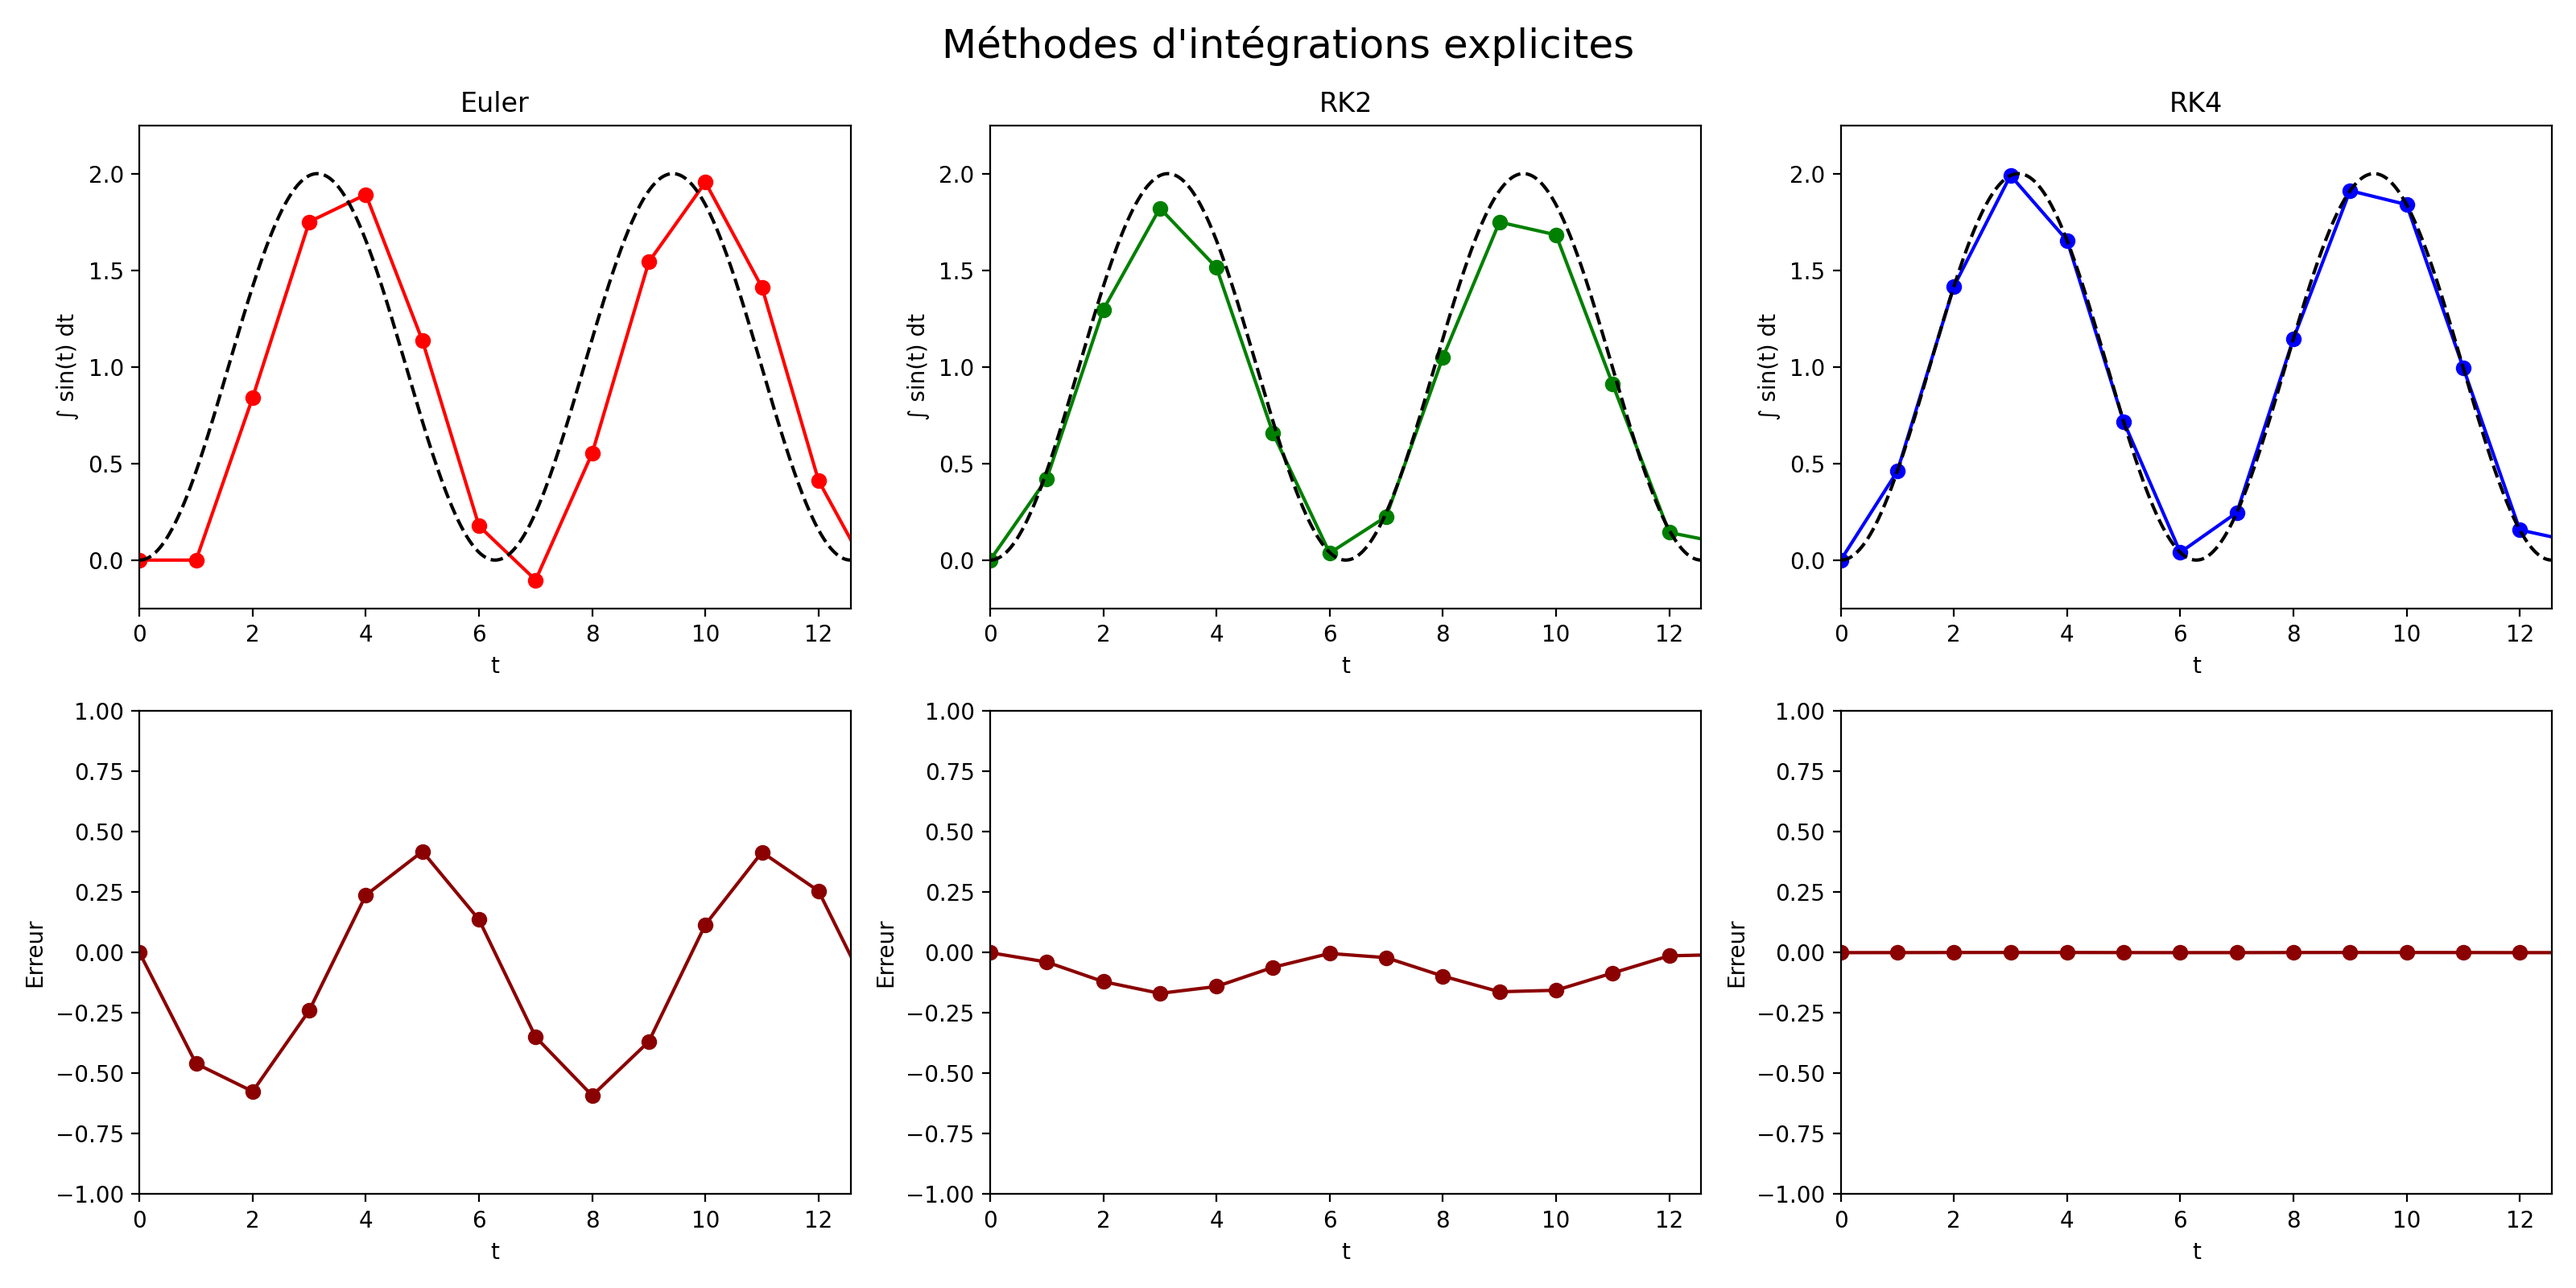
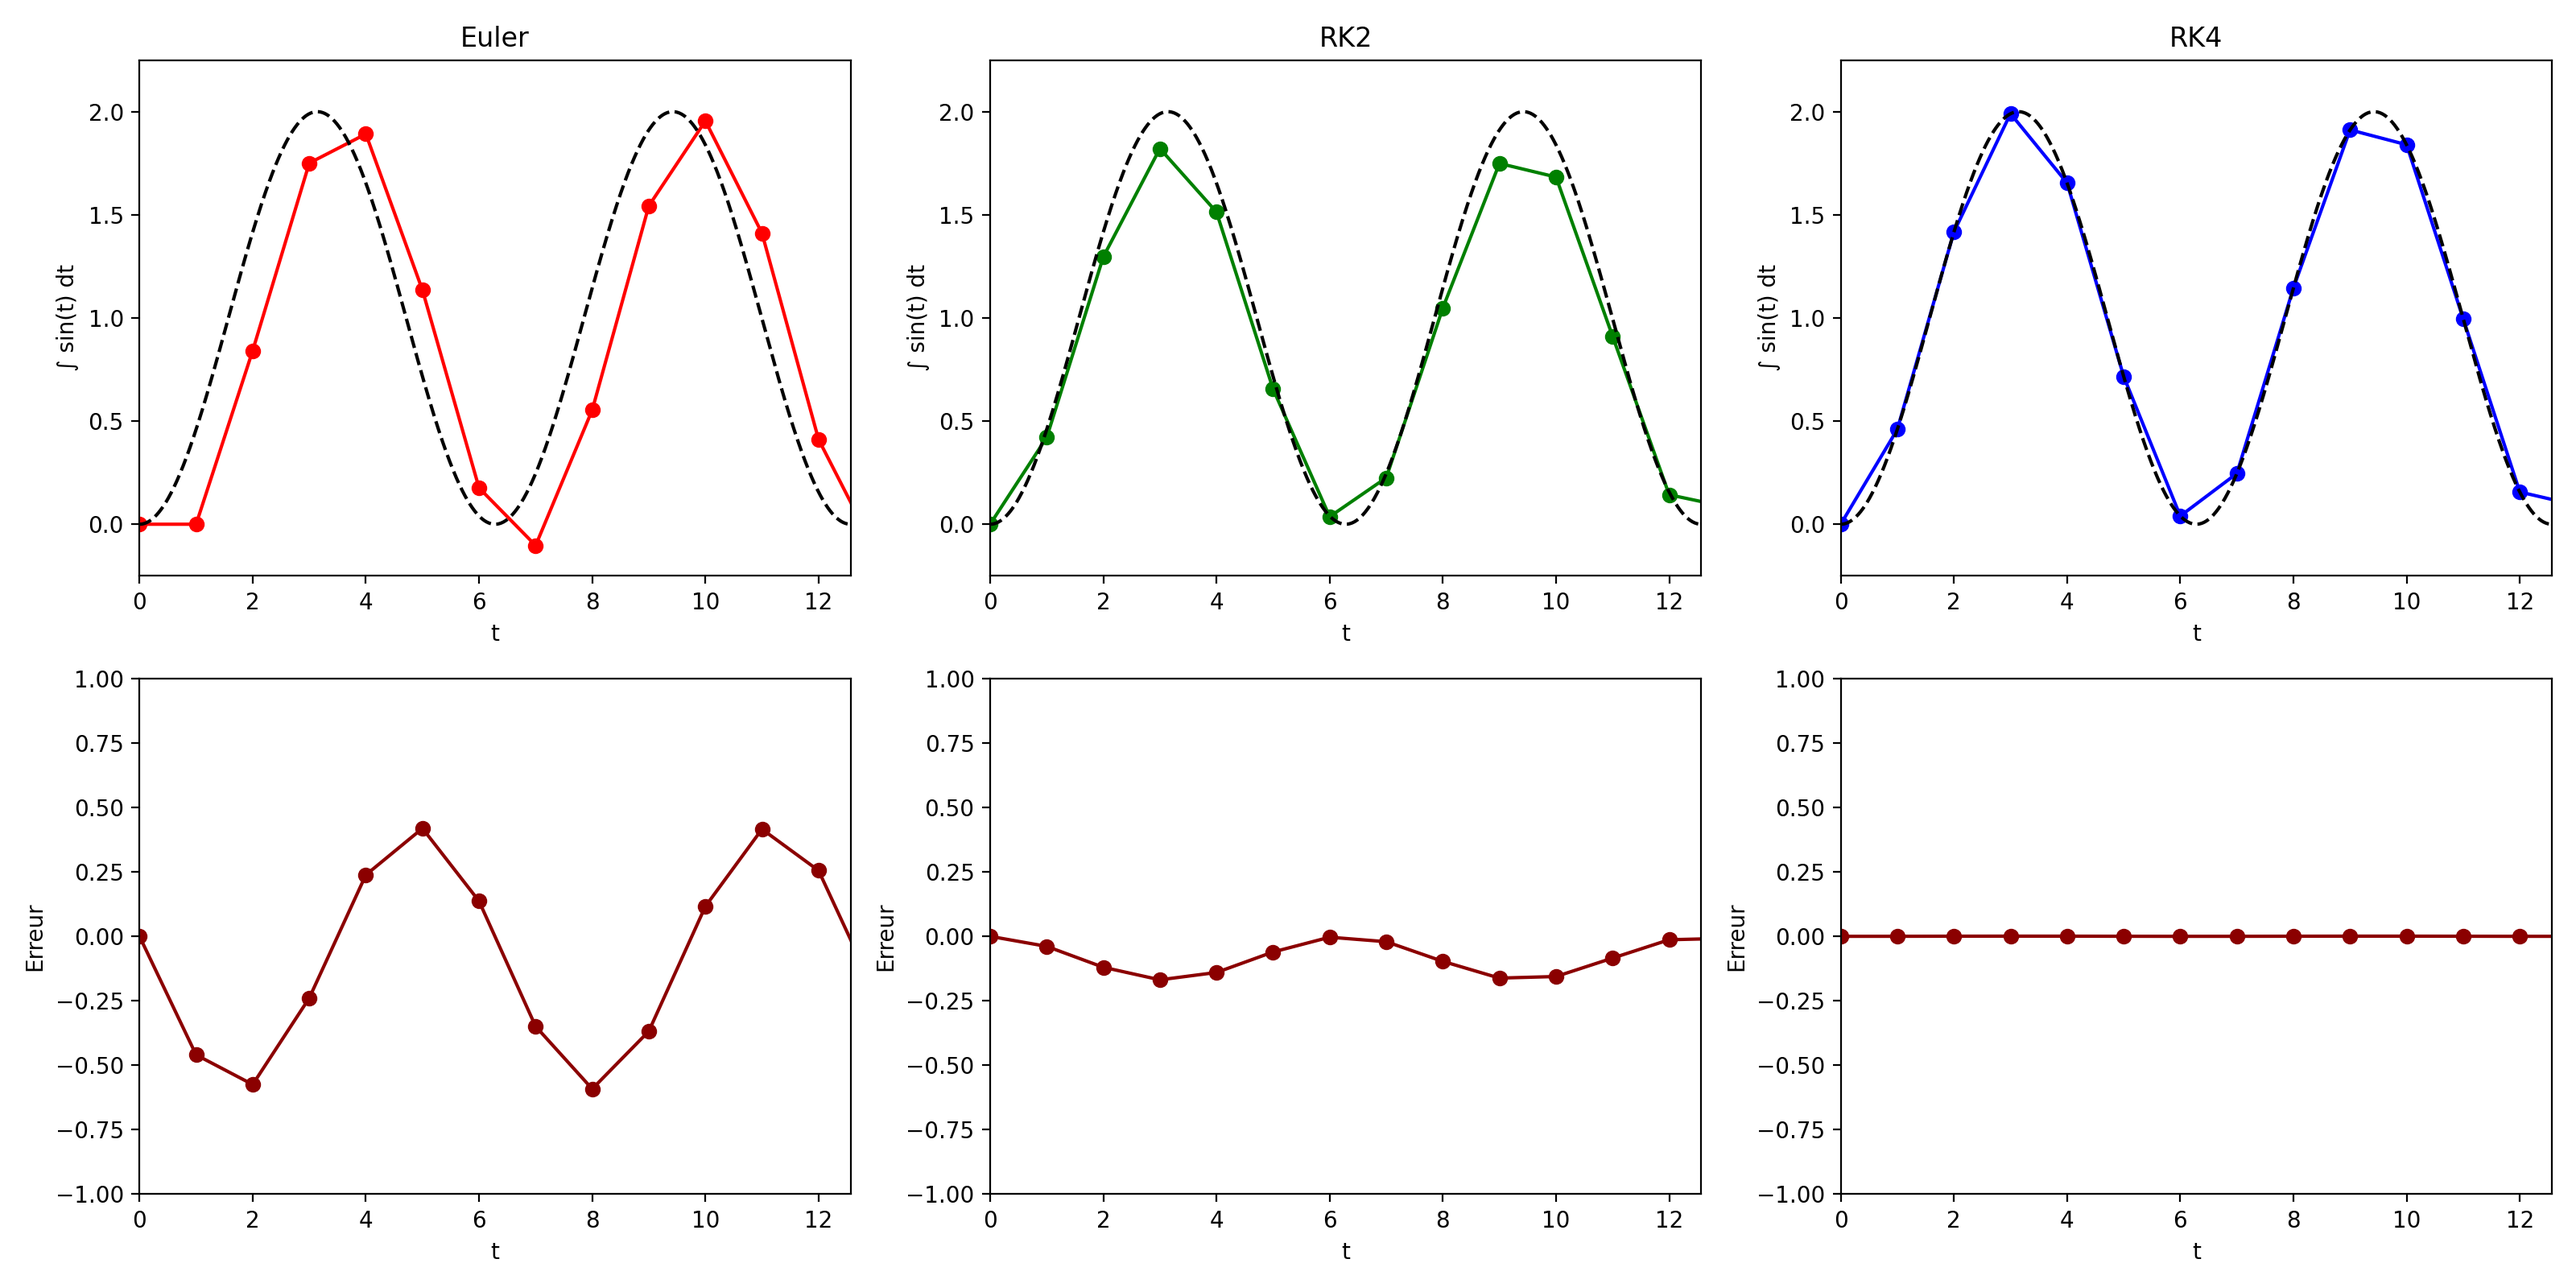
aze

diff --git a/assets/scripts/thesis/01_discretize_function.py b/assets/scripts/thesis/01_discretize_function.py
@@ -3,14 +3,14 @@ import matplotlib.pyplot as plt
 
 # Définir la fonction à discrétiser
 def f(t):
-    A = 1.0      # amplitude
+    A = 0.5      # amplitude
     mu = 10.0     # moyenne
     sigma = 4.0  # écart-type
     return A * np.exp(-((t - mu)**2) / (2 * sigma**2))
 # Paramètres de discrétisation
 t_min = 0
 t_max = 20
-dt = 2.
+dt = 2.5
 
 # Vecteur de temps discrétisé
 t_values = np.arange(t_min, t_max + 0.01, 0.01)
@@ -19,7 +19,7 @@ f_values = f(t_values)
 t_points = np.arange(t_min, t_max + dt, dt)
 f_points = f(t_points)
 
-plt.figure(figsize=(12, 6))  # Largeur:Hauteur = 2:1
+plt.figure(figsize=(18, 6))  # Largeur:Hauteur = 2:1
 
 
 # Coloration des zones sous la courbe avec intensité croissante
@@ -37,11 +37,11 @@ for i in range(n):
     progression = i / n
     red_intensity = int(progression * m) / m  # va de 0.1 à 1.0
     
-    plt.fill_between(t_fill, [0, 0], f_fill, color=(1 - red_intensity * 0.2, 0.8-red_intensity*0.7, 0.8-red_intensity*0.7), alpha=0.5)
+    plt.fill_between(t_fill, [0, 0], f_fill, color=(0.8-red_intensity*0.7, 0.8-red_intensity*0.7, 1 - red_intensity * 0.2), alpha=0.5)
 
 for i, (t, f) in enumerate(zip(t_points, f_points)):
-    label = "t" if i == 0 else f"t+{i}h"
-    plt.text(t, f + 0.05, label, ha='center', va='bottom', fontsize=9, color='black')
+    label = "0" if i == 0 else f"{i}h"
+    plt.text(t, f + 0.025, label, ha='center', va='bottom', fontsize=18, color='black')
 
 # Tracé de la courbe
 plt.plot(t_values, f_values, color='black', label='')
@@ -50,12 +50,14 @@ plt.plot(t_values, f_values, color='black', label='')
 plt.vlines(t_points, 0, f_points, colors=(0,0,0), linestyles='dashed', linewidth=1)
 plt.scatter(t_points, f_points, color=(0,0,0), label='')
 axes = plt.gca()
-axes.set_ylim([0,1.2])
+axes.set_ylim([0,0.6])
+
 
 # Mise en forme
-plt.xlabel('t')
-plt.ylabel('f(t)')
-plt.title('Discrétisation d\'une fonction')
+plt.xlabel('t', fontsize=18)
+plt.ylabel('f(t)', fontsize=18)
+plt.xticks(fontsize=18)
+plt.yticks(fontsize=18)
 plt.grid(False)
-plt.savefig('01_discretize_function.png', dpi=200)
+plt.savefig('discretize_function.png', dpi=200)
 plt.show()

diff --git a/assets/scripts/thesis/02_explicit_integration.py b/assets/scripts/thesis/02_explicit_integration.py
@@ -56,6 +56,8 @@ methods = ["Euler", "RK2", "RK4"]
 results = [F_euler, F_rk2, F_rk4]
 colors = ['red', 'green', 'blue']
 
+
+
 for i in range(3):
     axes[0][i].plot(t_values, results[i], 'o-', color=colors[i])
     axes[0][i].plot(t_exact, F_exact, '--', color='black')
@@ -74,7 +76,7 @@ for i in range(0,3):
     axes[1][i].set_ylabel('Erreur')
     axes[1][i].grid(False)
 
-plt.suptitle("Méthodes d'intégrations explicites", fontsize=18)
+
 plt.tight_layout()
 plt.savefig('02_explicit_integration.png', dpi=200)
 plt.show()
